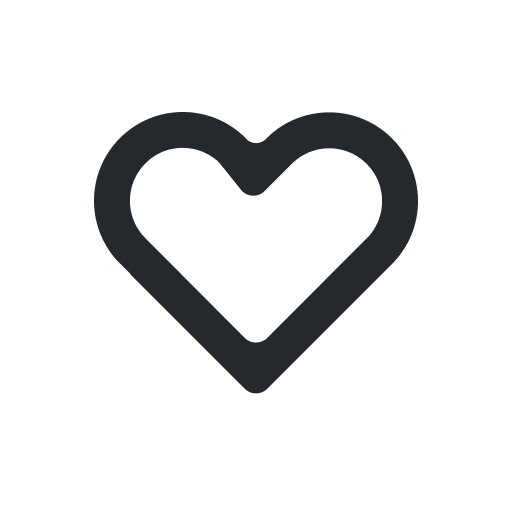
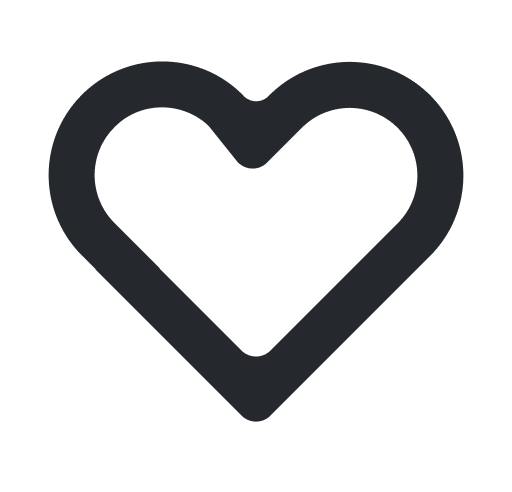
fix: DFP-561

Changed region(s): [[0.0938, 0.122, 0.9062, 0.8537]]

diff --git a/src/screens/CommentReplies/useStyles.ts b/src/screens/CommentReplies/useStyles.ts
@@ -22,7 +22,7 @@ const useStyles = makeStyle(theme => ({
   },
   rightContainer: {flexDirection: 'row', alignItems: 'center'},
   divider: {
-    borderColor: 'rgba(239, 239, 239, 1)',
+    borderColor: theme.colors.dividerGrey,
     borderWidth: 0.5,
     marginHorizontal: -30,
   },

diff --git a/src/screens/PostDetails/useStyles.ts b/src/screens/PostDetails/useStyles.ts
@@ -39,7 +39,7 @@ const useStyles = makeStyle(theme => ({
   },
   rightContainer: {flexDirection: 'row', alignItems: 'center'},
   divider: {
-    borderColor: theme.colors.surfaceGrey,
+    borderColor: theme.colors.dividerGrey,
     borderWidth: 0.5,
     marginHorizontal: -30,
   },

diff --git a/src/components/PopupMenu/useStyles.ts b/src/components/PopupMenu/useStyles.ts
@@ -19,7 +19,7 @@ const useStyles = makeStyle(theme => ({
     paddingVertical: theme.spacing.s,
   },
   divider: {
-    borderColor: theme.colors.lightGrey01,
+    borderColor: theme.colors.dividerGrey,
     borderWidth: 0.5,
   },
 }));

diff --git a/src/screens/PostDetails/components/PostActionButtonsBar/useStyles.ts b/src/screens/PostDetails/components/PostActionButtonsBar/useStyles.ts
@@ -32,7 +32,7 @@ const useStyles = makeStyle(theme => ({
     resizeMode: 'contain',
   },
   divider: {
-    borderColor: theme.colors.surfaceGrey,
+    borderColor: 'rgba(239, 239, 239, 1)',
     borderWidth: 0.5,
   },
 }));
